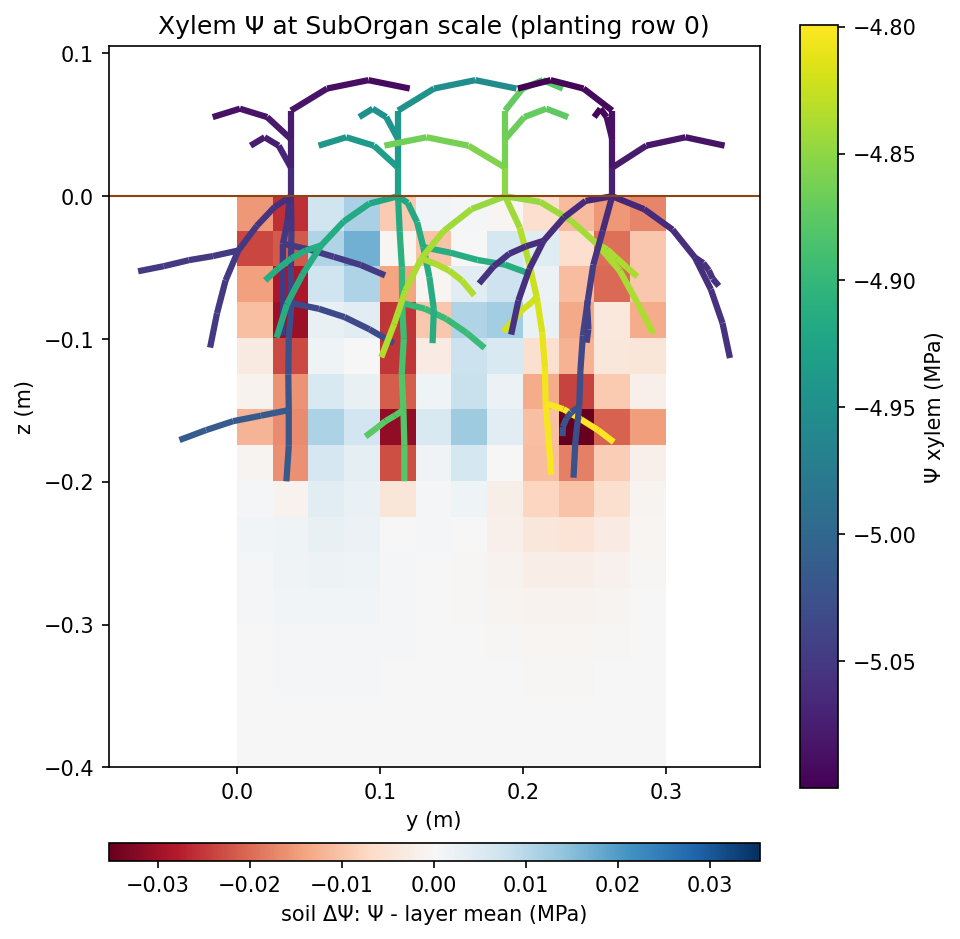
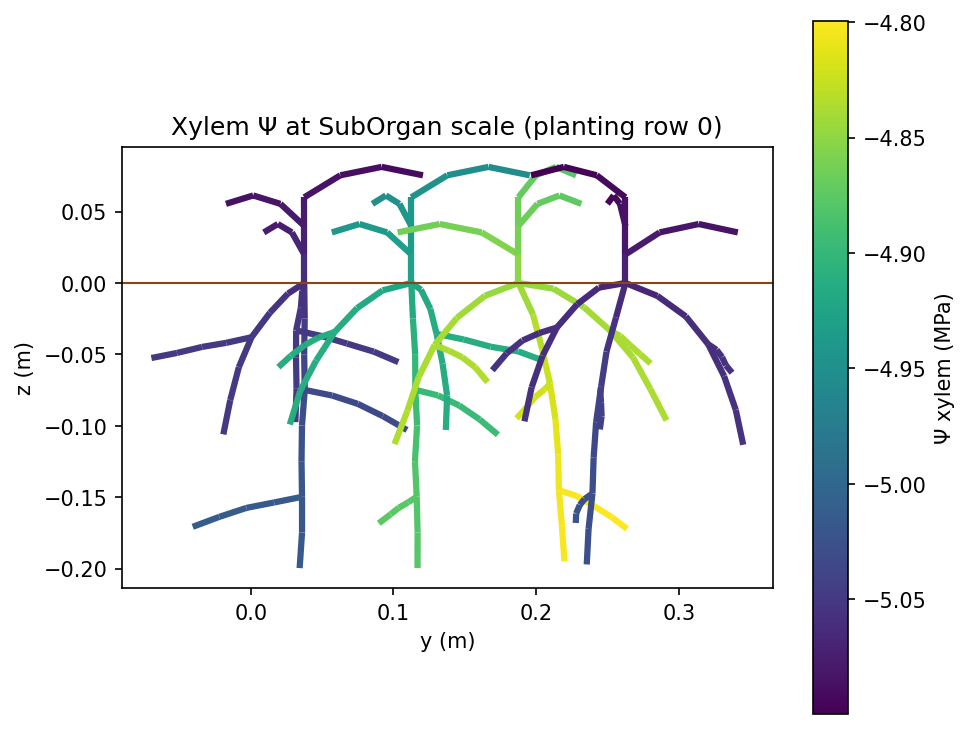
SPAC example: the side views alone and over the soil ΔΨ, as separate figures

diff --git a/examples/soil_plant_atmosphere/one_plant.py b/examples/soil_plant_atmosphere/one_plant.py
@@ -31,8 +31,10 @@ def plots(built, folder, row=None):
     os.makedirs(folder, exist_ok=True)
     plants = [population.data_structure for population in built.populations]
     soil = next(model for model in built.environment if isinstance(model, Soil)).grid
-    plotting.plant_segments(plants, os.path.join(folder, "plant_segments.png"), row=row, soil=soil)
-    plotting.plant_anatomy(plants[0], os.path.join(folder, "plant_anatomy.png"), row=row, soil=soil)
+    plotting.plant_segments(plants, os.path.join(folder, "plant_segments.png"), row=row)
+    plotting.plant_segments(plants, os.path.join(folder, "plant_segments_soil.png"), row=row, soil=soil)   # ΔΨ
+    plotting.plant_anatomy(plants[0], os.path.join(folder, "plant_anatomy.png"), row=row)
+    plotting.plant_anatomy(plants[0], os.path.join(folder, "plant_anatomy_soil.png"), row=row, soil=soil)
     plotting.anatomy_types(plants[0], os.path.join(folder, "anatomy_types.png"))
     plotting.soil_slice(soil, plants, os.path.join(folder, "soil_slice.png"), row=row)
     plotting.soil_slice(soil, plants, os.path.join(folder, "soil_slice_anomaly.png"), row=row, anomaly=True)

diff --git a/test/examples/test_soil_plant_atmosphere.py b/test/examples/test_soil_plant_atmosphere.py
@@ -16,7 +16,8 @@ import one_plant                                                                
 import population                                                                    # noqa: E402
 from models import Soil                                                               # noqa: E402
 
-FIGURES = ("plant_segments.png", "plant_anatomy.png", "anatomy_types.png", "soil_slice.png", "soil_slice_anomaly.png",
+FIGURES = ("plant_segments.png", "plant_segments_soil.png", "plant_anatomy.png", "plant_anatomy_soil.png",
+           "anatomy_types.png", "soil_slice.png", "soil_slice_anomaly.png",
            "top_view.png", "upscaling.png")
 
 

diff --git a/devlog.md b/devlog.md
@@ -2057,3 +2057,5 @@ Per-file counts:
 - **Finer soil voxels hung (your report):** at voxel 0.0125 the soil Newton step spent 22 s in SuperLU. The cause is the system of 8192 cell Ψ plus 24320 edge fluxes: cell rows hold only fluxes (7680 zero diagonals), so COLAMD pivoting gave 25.7 M fill-in. The linear step now eliminates edge unknowns whose Jacobian block is diagonal (an exact Schur complement, checked to 1e-13), and other systems use MMD_AT_PLUS_A. Times: 0.0125 m runs in 2.3 s in total (7 steps); 0.00625 m (65k cells) in 100 s, 92 s of which is the direct solve of the cell system (6.6 s each). Results at the default voxel are unchanged. 2 tests, suite 774 passed. Open: an iterative solver for larger grids.
 - **Second lateral on the pivot (your request):** `pivot_lateral_ranks=(2, 5)`, on alternate sides; 48 segments and 180 Compartments per plant. Converges in 7 steps (one plant) and 10 (population); balances closed.
 - **Soil ΔΨ behind the side views (your request):** `plant_segments` and `plant_anatomy` take `soil=`. The soil's Ψ minus its layer mean, in the plants' plane (the planting row, or the collar's y), is drawn behind the architecture on a diverging RdBu scale centred on 0 (colour bar under the plot), with the plant on viridis (right). The slice selection is shared with `soil_slice`. Figures and README regenerated; README counts (and the stale radial-k values) corrected.
+- **Separate figures (your request):** the side views exist alone (`plant_segments.png`, `plant_anatomy.png`) and over the soil ΔΨ (`*_soil.png`); README and smoke test updated. Your answer: the 2.5 cm default stays (restored by you); figures regenerated at 2.5 cm. No iterative solver yet.
+- **Adaptive soil (your request):** plan in `devplan_adaptive_soil.md`. Flux intensity is argued not to be the right refinement metric (FV resolves linear profiles exactly; error follows the curvature, i.e. the sink density); questions Q1–Q4. Found: `CrossMapping` does not rebuild after the target grid's topology changes.

diff --git a/examples/soil_plant_atmosphere/README.md b/examples/soil_plant_atmosphere/README.md
@@ -29,11 +29,16 @@ Volumes in mm³ keep the solves' residuals well above the solver's absolute tole
 
 The scene converges in seven steps (largest change of Ψ: 7.8e-01, 1.2e-02, 4.6e-04, 2.6e-05, 1.6e-06, 9.7e-08 MPa). Transpiration
 (0.076 mm³ s⁻¹) equals the root uptake and the water taken from the soil; the water table supplies it and the soil
-evaporation. The side views draw the soil's ΔΨ (Ψ minus its layer mean, red where drier) behind the plant, on a
-scale of its own, under the plot; the plant keeps its Ψ scale on the right.
+evaporation.
 
 ![plants at SubOrgan scale](figures/one_plant/plant_segments.png)
 ![the plant with its anatomies](figures/one_plant/plant_anatomy.png)
+
+The same views with the soil's ΔΨ (Ψ minus its layer mean, red where drier) behind the plant, on a scale of its own
+under the plot, the plant keeping its Ψ scale on the right:
+
+![plants at SubOrgan scale over the soil ΔΨ](figures/one_plant/plant_segments_soil.png)
+![the plant with its anatomies over the soil ΔΨ](figures/one_plant/plant_anatomy_soil.png)
 ![one anatomy per organ type](figures/one_plant/anatomy_types.png)
 ![soil slice](figures/one_plant/soil_slice.png)
 
@@ -61,6 +66,7 @@ potentials absorb the difference: the least conductive roots give the lowest lea
 The side views show the first planting row (four plants, seen along the row, in the y–z plane).
 
 ![plants](figures/population/plant_segments.png)
+![plants over the soil ΔΨ](figures/population/plant_segments_soil.png)
 ![soil slice](figures/population/soil_slice.png)
 ![soil slice, anomaly](figures/population/soil_slice_anomaly.png)
 ![top view](figures/population/top_view.png)
